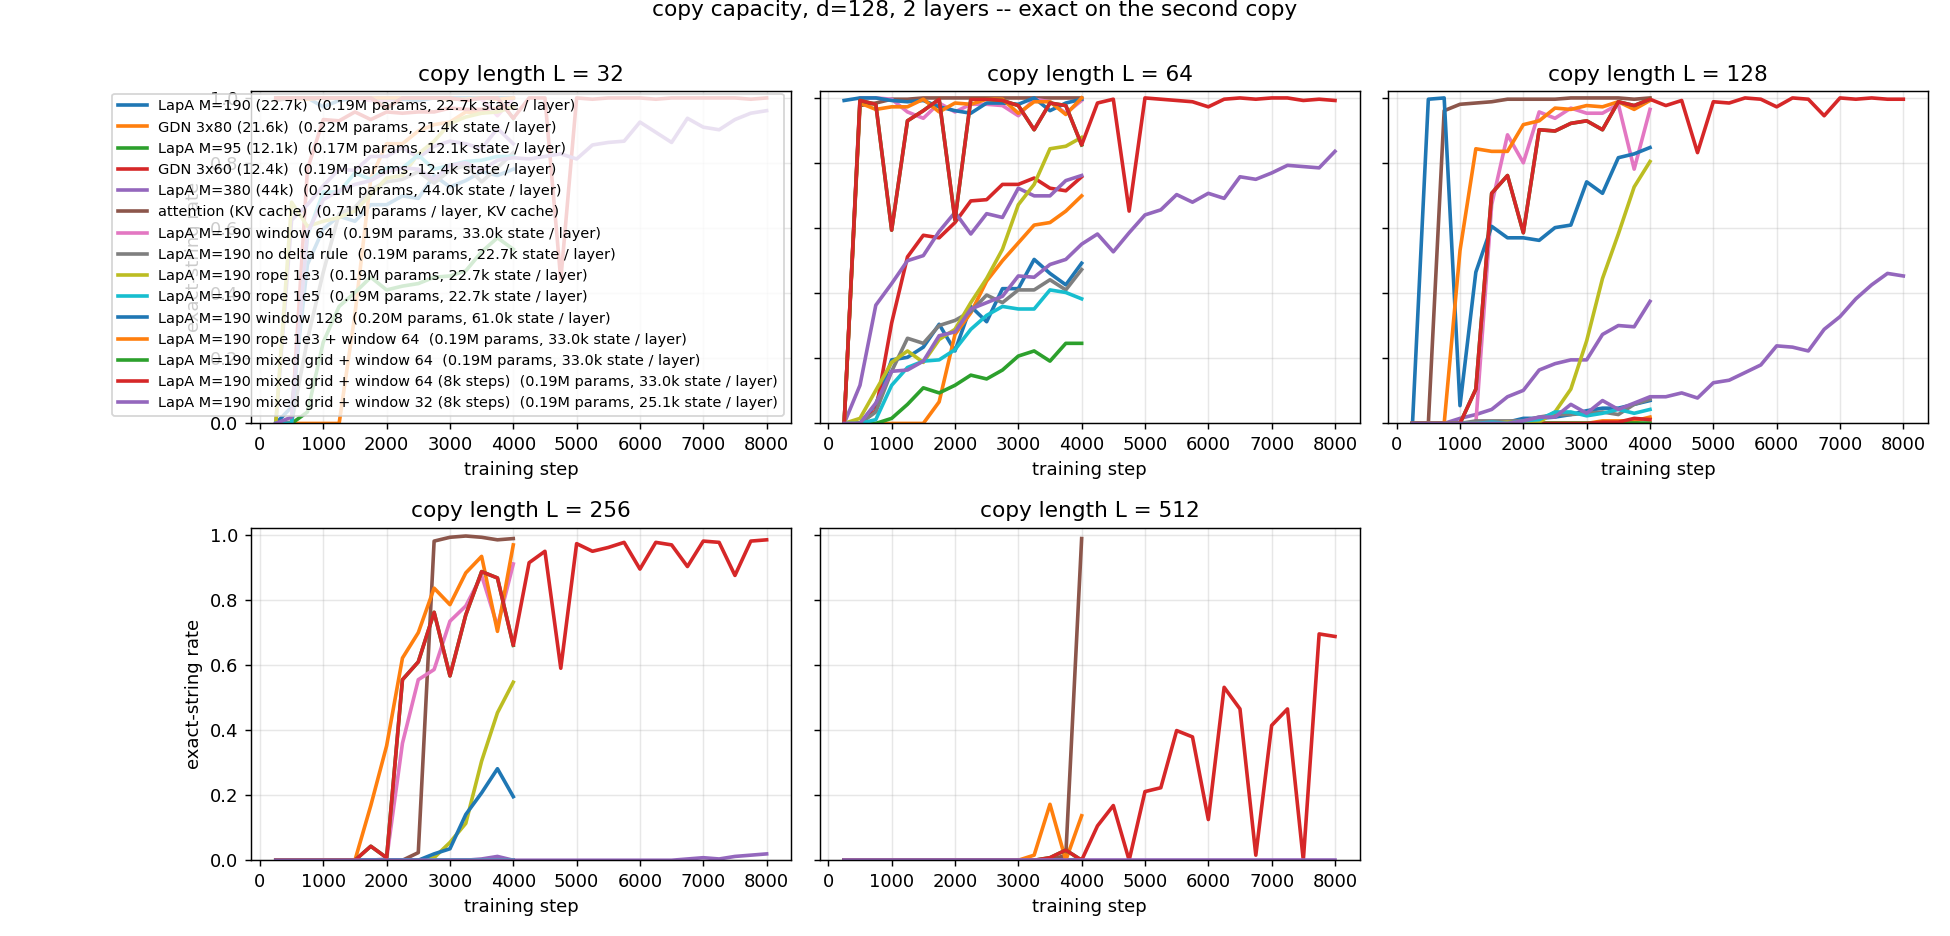
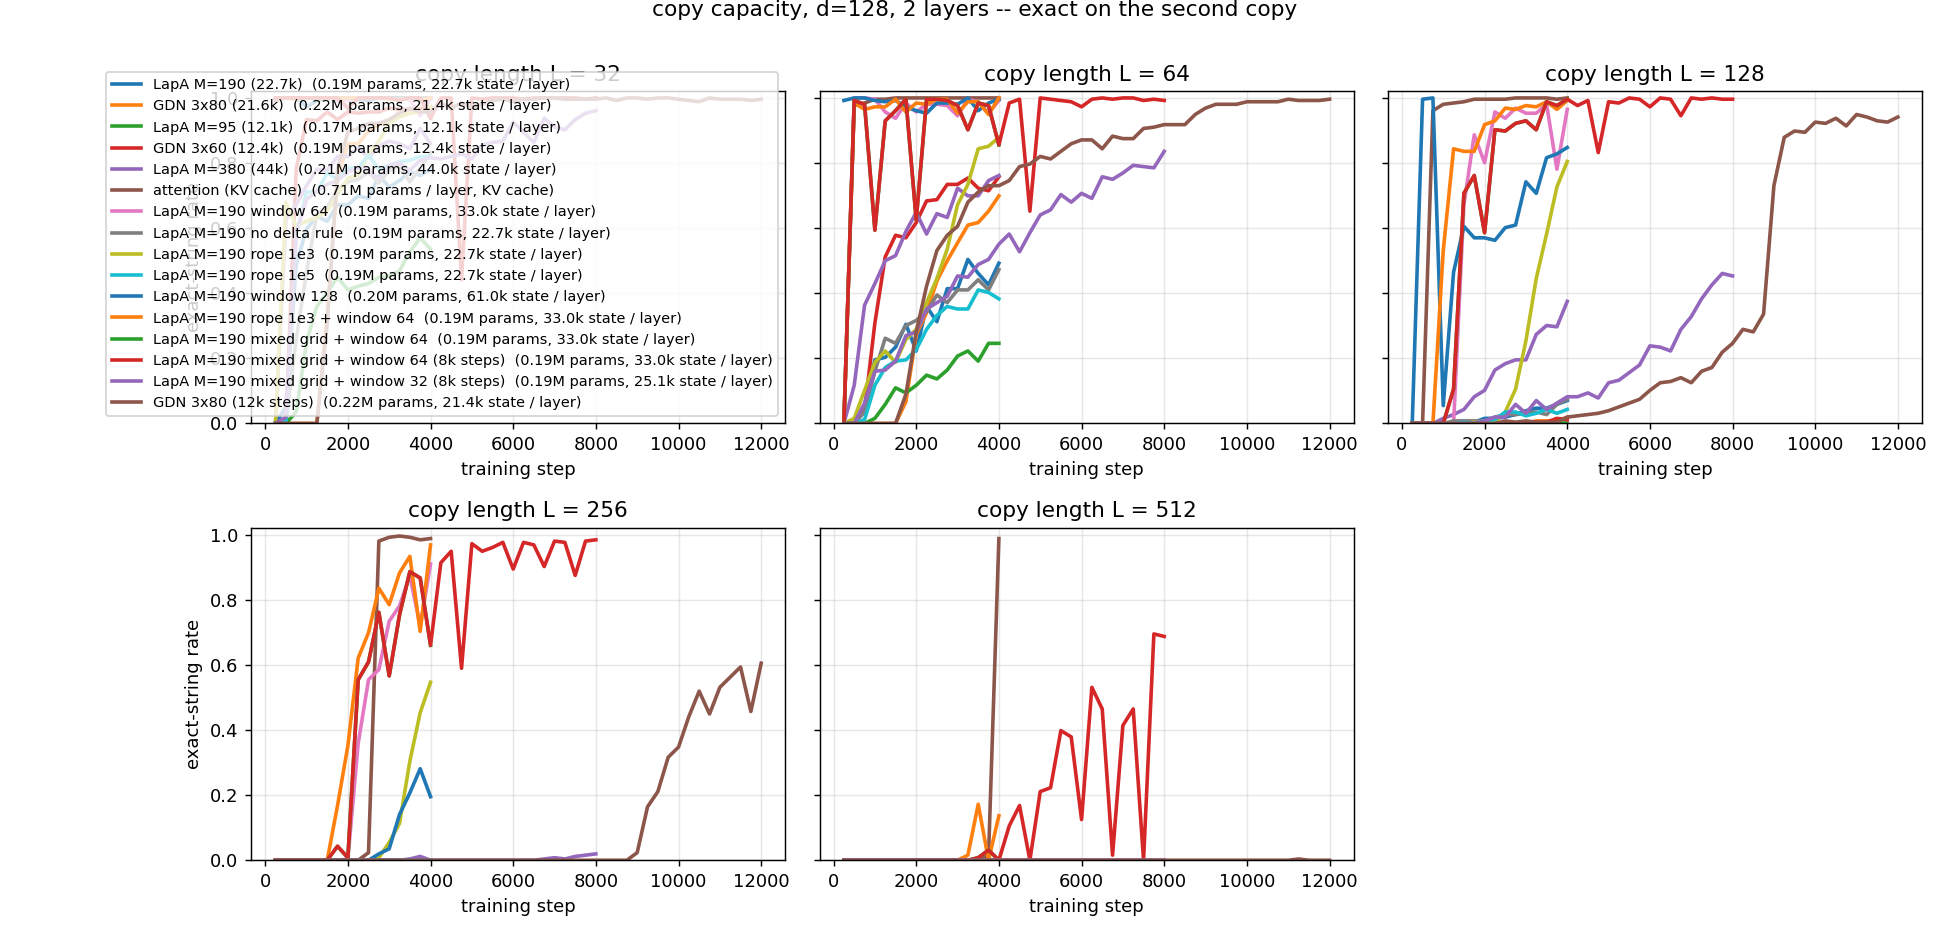
copy: GDN 12k result (cliff partly learning speed), LapA v1 12k queued; hide pattern fixed

diff --git a/CATCHUP.md b/CATCHUP.md
@@ -580,6 +580,26 @@ harder than a forgetting one — cosine/clipping territory, not architecture).
 **Laplace Attention v1 = mixed grid (slow_frac 0.25, base 1e3) + window 64, M=190.**
 Queued: copy with window 32 on the same grid (does the window halve for free?).
 
+### GDN at 12k steps: the cliff was partly a learning-speed cliff (2026-09-11, 14:00)
+
+GDN 3×80 trained 3× longer (exact-string rates, L = 32 / 64 / 128 / 256 / 512, token acc
+in brackets where exact is 0):
+
+| arm | steps | L32 | L64 | L128 | L256 | L512 |
+|---|---|---|---|---|---|---|
+| GDN 3×80 | 4000 | 0.97 | 0.70 | 0.02 | 0 (0.81) | 0 (0.52) |
+| GDN 3×80 | 8000 | 1.00 | 0.92 | 0.29 | 0 (0.91) | 0 (0.65) |
+| GDN 3×80 | 12000 | 1.00 | 1.00 | 0.94 | **0.61** | 0 (0.99) |
+| LapA v1 (mixed + w64) | 8000 | 1.00 | 0.99 | 1.00 | **0.98** | **0.69** |
+
+GDN keeps improving with budget: at 12k it copies 256 exactly 61% of the time and reaches
+0.99 per token at 512. So its 4000-step "cliff" was mostly slower learning of long
+copies, not a hard capacity wall — except at L=512 exact, still 0. At equal budget (8k)
+LapA v1 is far ahead (L128 1.00 vs 0.29, L256 0.98 vs 0.00); at 1.5× GDN's budget LapA
+still leads at 256 and 512. LapA v1 at 12k queued for the equal-budget row. Lesson for the
+Spark protocol: copy curves must be read at equal steps AND to saturation — GDN's
+saturation point is beyond 12k here.
+
 ### Speed pass on Laplace Attention (2026-09-10, in progress)
 
 Profile of A's layer under compile (B=8, T=1024, fwd+bwd): long head 65%, short
